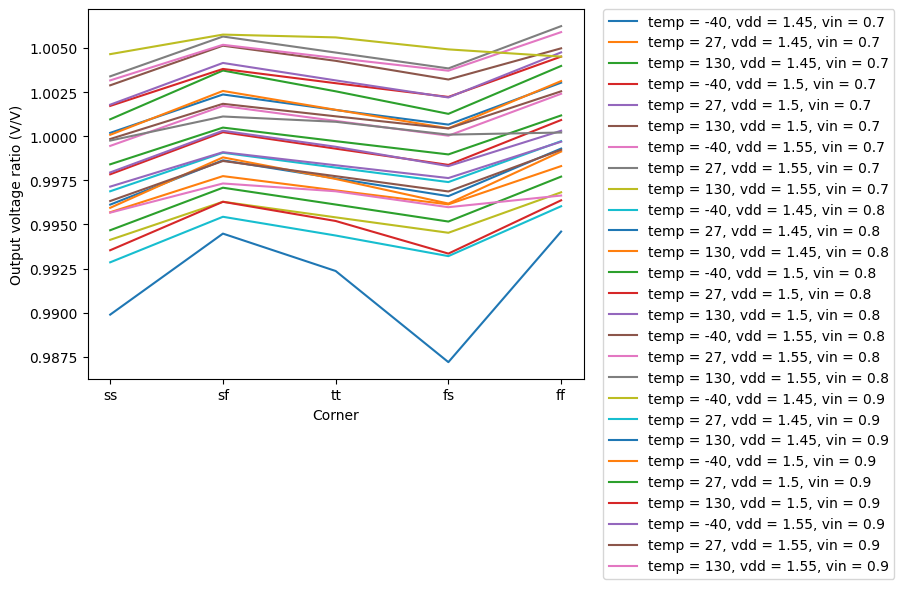
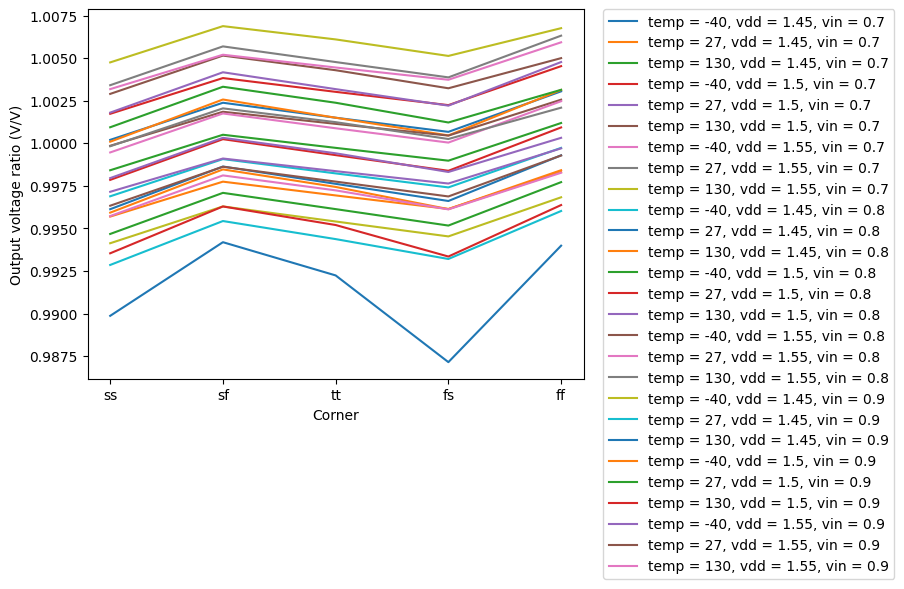
updated CACE figures and .md for ota-5t, for ota-improved the old output files are untouched since the improved OTA does not pass the min. and max. limits for noise and ac

diff --git a/cace/_docs/ota-5t_schematic.md b/cace/_docs/ota-5t_schematic.md
@@ -1,78 +1,78 @@
 
-# CACE Summary for ota-5t {.unnumbered .unlisted}
+# CACE Summary for ota-5t
 
 **netlist source**: schematic
 
 |      Parameter       |         Tool         |     Result      | Min Limit  |  Min Value   | Typ Target |  Typ Value   | Max Limit  |  Max Value   |  Status  |
 | :------------------- | :------------------- | :-------------- | ---------: | -----------: | ---------: | -----------: | ---------: | -----------: | :------: |
-| Output voltage ratio | ngspice              | gain                 |        0.97 V/V |  0.987 V/V |          any |  1.000 V/V |     1.03 V/V |  1.006 V/V |   Pass ✅    |
-| Bandwidth            | ngspice              | bw                   |         10e6 Hz | 15551000.000 Hz |          any | 26912100.000 Hz |          any | 34051700.000 Hz |   Pass ✅    |
-| Output noise         | ngspice              | noise                |             any |   0.308 mV |          any |   0.371 mV |         1 mV |   0.455 mV |   Pass ✅    |
-| Settling time        | ngspice              | tsettle              |             any |   0.135 us |          any |   0.142 us |        10 us |   0.155 us |   Pass ✅    |
+| Output voltage ratio | ngspice              | gain                 |        0.97 V/V |  0.987 V/V |          any |  1.000 V/V |     1.03 V/V |  1.007 V/V |   Pass ✅    |
+| Bandwidth            | ngspice              | bw                   |         10e6 Hz | 15550400.000 Hz |          any | 26912100.000 Hz |          any | 34052200.000 Hz |   Pass ✅    |
+| Output noise         | ngspice              | noise                |             any |   0.308 mV |          any |   0.371 mV |         1 mV |   0.454 mV |   Pass ✅    |
+| Settling time        | ngspice              | tsettle              |             any |   0.136 us |          any |   0.143 us |        10 us |   0.155 us |   Pass ✅    |
 
 
-## Plots {.unnumbered .unlisted}
+## Plots
 
-## gain_vs_temp {.unnumbered .unlisted}
+## gain_vs_temp
 
-![gain_vs_temp](./cace/_docs/ota-5t/schematic/gain_vs_temp.png)
+![gain_vs_temp](./ota-5t/schematic/gain_vs_temp.png)
 
-## gain_vs_vin {.unnumbered .unlisted}
+## gain_vs_vin
 
-![gain_vs_vin](./cace/_docs/ota-5t/schematic/gain_vs_vin.png)
+![gain_vs_vin](./ota-5t/schematic/gain_vs_vin.png)
 
-## gain_vs_vdd {.unnumbered .unlisted}
+## gain_vs_vdd
 
-![gain_vs_vdd](./cace/_docs/ota-5t/schematic/gain_vs_vdd.png)
+![gain_vs_vdd](./ota-5t/schematic/gain_vs_vdd.png)
 
-## gain_vs_corner {.unnumbered .unlisted}
+## gain_vs_corner
 
-![gain_vs_corner](./cace/_docs/ota-5t/schematic/gain_vs_corner.png)
+![gain_vs_corner](./ota-5t/schematic/gain_vs_corner.png)
 
-## bw_vs_temp {.unnumbered .unlisted}
+## bw_vs_temp
 
-![bw_vs_temp](./cace/_docs/ota-5t/schematic/bw_vs_temp.png)
+![bw_vs_temp](./ota-5t/schematic/bw_vs_temp.png)
 
-## bw_vs_vin {.unnumbered .unlisted}
+## bw_vs_vin
 
-![bw_vs_vin](./cace/_docs/ota-5t/schematic/bw_vs_vin.png)
+![bw_vs_vin](./ota-5t/schematic/bw_vs_vin.png)
 
-## bw_vs_vdd {.unnumbered .unlisted}
+## bw_vs_vdd
 
-![bw_vs_vdd](./cace/_docs/ota-5t/schematic/bw_vs_vdd.png)
+![bw_vs_vdd](./ota-5t/schematic/bw_vs_vdd.png)
 
-## bw_vs_corner {.unnumbered .unlisted}
+## bw_vs_corner
 
-![bw_vs_corner](./cace/_docs/ota-5t/schematic/bw_vs_corner.png)
+![bw_vs_corner](./ota-5t/schematic/bw_vs_corner.png)
 
-## noise_vs_temp {.unnumbered .unlisted}
+## noise_vs_temp
 
-![noise_vs_temp](./cace/_docs/ota-5t/schematic/noise_vs_temp.png)
+![noise_vs_temp](./ota-5t/schematic/noise_vs_temp.png)
 
-## noise_vs_vin {.unnumbered .unlisted}
+## noise_vs_vin
 
-![noise_vs_vin](./cace/_docs/ota-5t/schematic/noise_vs_vin.png)
+![noise_vs_vin](./ota-5t/schematic/noise_vs_vin.png)
 
-## noise_vs_vdd {.unnumbered .unlisted}
+## noise_vs_vdd
 
-![noise_vs_vdd](./cace/_docs/ota-5t/schematic/noise_vs_vdd.png)
+![noise_vs_vdd](./ota-5t/schematic/noise_vs_vdd.png)
 
-## noise_vs_corner {.unnumbered .unlisted}
+## noise_vs_corner
 
-![noise_vs_corner](./cace/_docs/ota-5t/schematic/noise_vs_corner.png)
+![noise_vs_corner](./ota-5t/schematic/noise_vs_corner.png)
 
-## settling_vs_temp {.unnumbered .unlisted}
+## settling_vs_temp
 
-![settling_vs_temp](./cace/_docs/ota-5t/schematic/settling_vs_temp.png)
+![settling_vs_temp](./ota-5t/schematic/settling_vs_temp.png)
 
-## settling_vs_vin {.unnumbered .unlisted}
+## settling_vs_vin
 
-![settling_vs_vin](./cace/_docs/ota-5t/schematic/settling_vs_vin.png)
+![settling_vs_vin](./ota-5t/schematic/settling_vs_vin.png)
 
-## settling_vs_vdd {.unnumbered .unlisted}
+## settling_vs_vdd
 
-![settling_vs_vdd](./cace/_docs/ota-5t/schematic/settling_vs_vdd.png)
+![settling_vs_vdd](./ota-5t/schematic/settling_vs_vdd.png)
 
-## settling_vs_corner {.unnumbered .unlisted}
+## settling_vs_corner
 
-![settling_vs_corner](./cace/_docs/ota-5t/schematic/settling_vs_corner.png)
+![settling_vs_corner](./ota-5t/schematic/settling_vs_corner.png)
